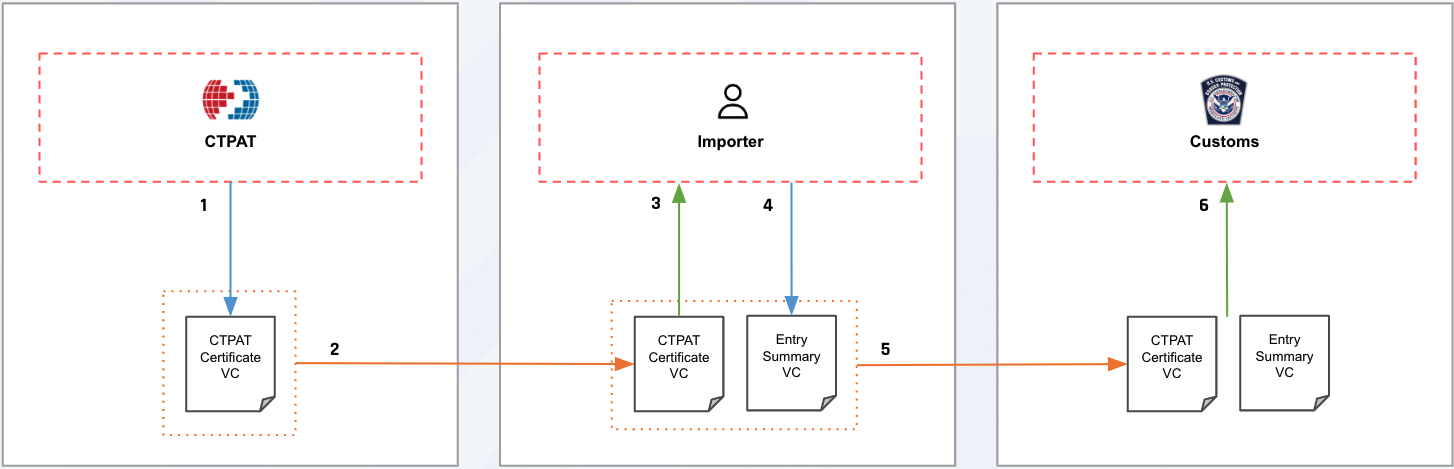
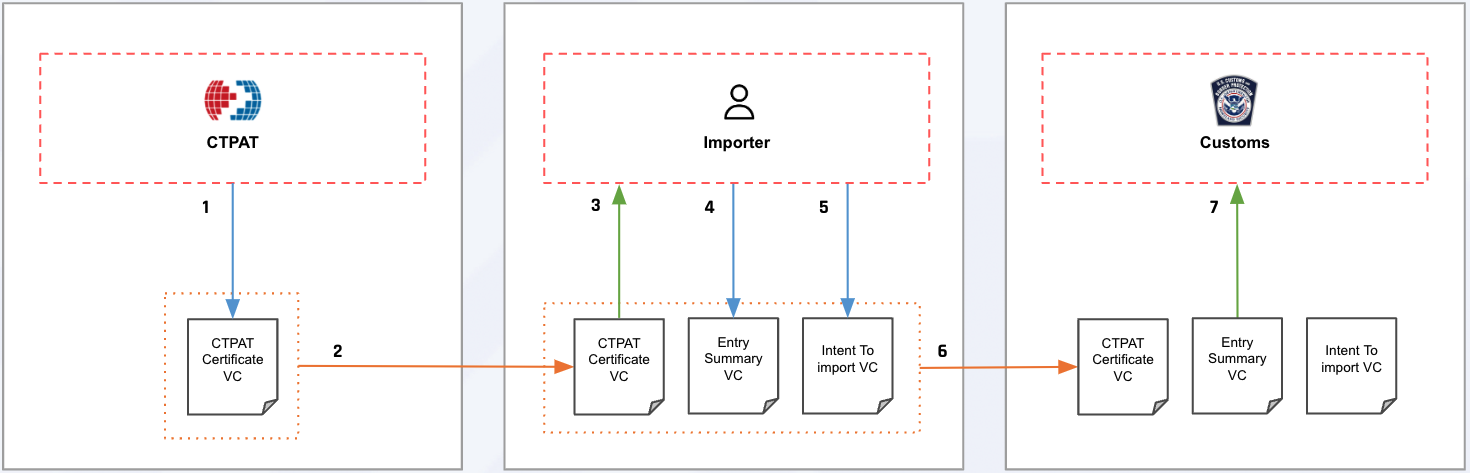
feat: iti added to ctpat workflow

diff --git a/docs/index.html b/docs/index.html
@@ -895,7 +895,7 @@ Issuers are advised to review the JSON-LD and all associated terms before issuin
           CTPAT runs vetting procedures, issues and presents a CTPAT Certificate (1) which is presented to the Importer (2).
         </p>
         <p>
-          Upon goods importing the Importer issues a 7501 Entry Summary (4) which is presented along with the CTPAT Certificate to CBP (5). 
+          Upon goods importing the Importer issues 7501 Entry Summary (4) and Intent To Import (5) credentials which are presented along with the CTPAT Certificate to CBP (6). 
         </p>
         <h5>Freight Forwarder Consignment</h5>
         <p>
